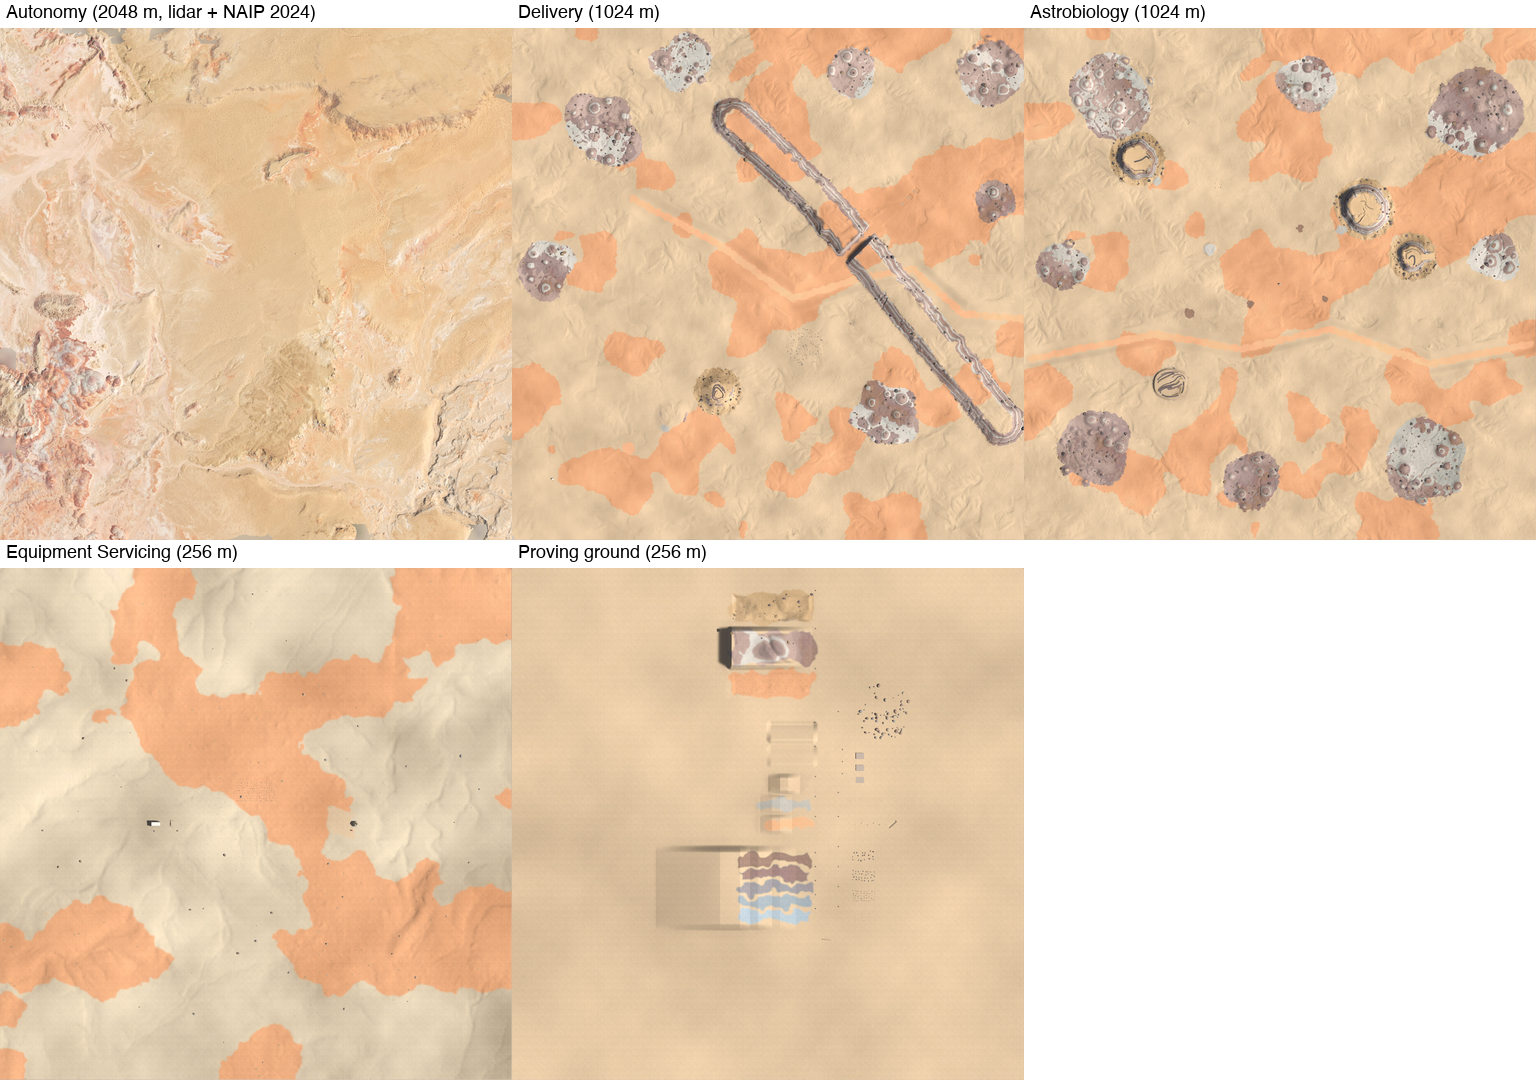
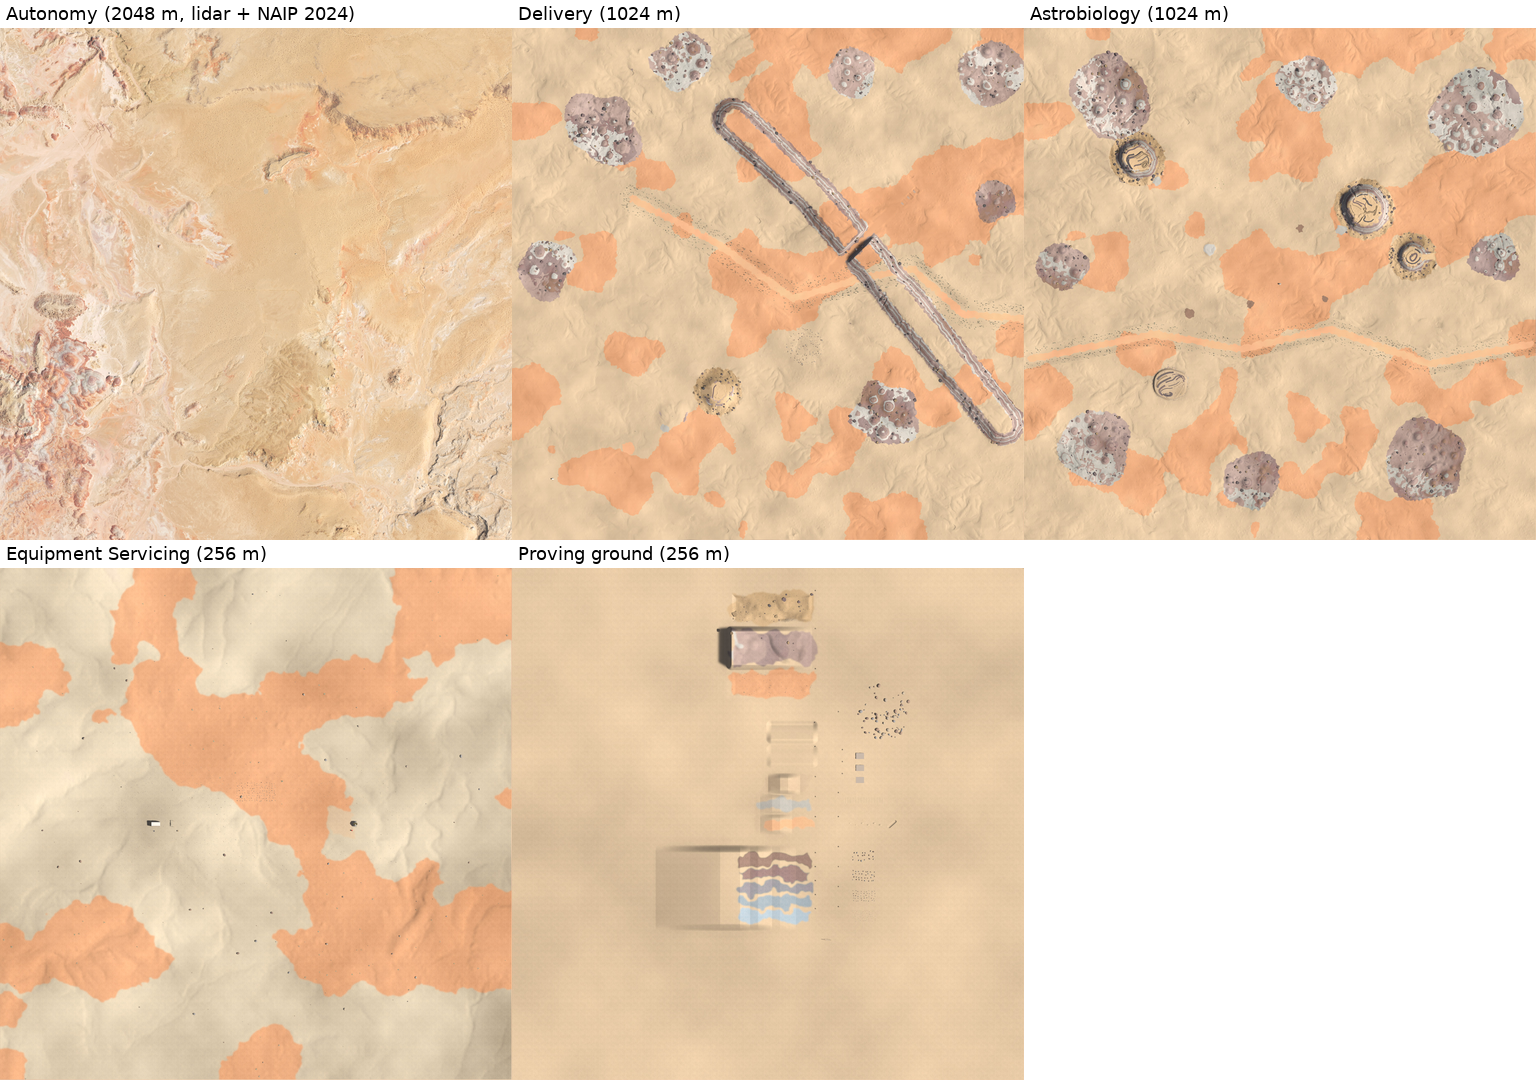
Sinkage regression spawns clear of the cross slope; README relief numbers attributed; worlds montage from the new maps
A 0.1 m spawn lift on the badland strip's 15 deg cross slope put the uphill
wheel into the heightmap, where it stayed 5-9 cm deep (a Gazebo lesson now).

diff --git a/sim/tests/test_urc_terrain.py b/sim/tests/test_urc_terrain.py
@@ -1084,17 +1084,19 @@ class ProvingGroundPhysics(unittest.TestCase):
         same surface as a mesh 0.5 mm; Gazebo lessons). On the proving
         ground's natural badland strip, the roughest of the worlds' natural
         ground, the surface reaches into a wheel at most 2.5 cm (p99) beyond
-        the carve, while the rover drives 8 m up it at 0.5 m/s (measured
-        2026-10-07: p99 16.8 mm; 1-17 mm across the worlds' natural ground)."""
+        the carve, while the rover drives 7 m along it at 0.5 m/s (measured
+        2026-10-07: p99 16.5 mm; 1-17 mm across the worlds' natural ground).
+        Spawned 0.35 m up: on its 15 deg cross slope a 0.1 m lift put the
+        uphill wheel into the heightmap, where it stayed 5-9 cm deep."""
         p = self.sheet["points"]["natural_badland"]
         heading = math.radians(p["heading_deg"])
         x, y = p["x"] + 3.0 * math.cos(heading), p["y"] + 3.0 * math.sin(heading)
         surface = sheets.terrain(self.sheet, sheets.path("proving_ground"), collision=True)
-        with world_copy("proving_ground", rover=(x, y, heading), lift=0.1) as world:
+        with world_copy("proving_ground", rover=(x, y, heading), lift=0.35) as world:
             wheels = wheel_poses(world, 18.0, 0.5)
         reach = wheel_penetration(wheels[wheels[:, 0] > 2.0], surface.height)  # [m] after the spawn settles
         moved = math.dist(wheels[0, 1:3], wheels[-1, 1:3])
-        self.assertGreater(moved, 7.0)
+        self.assertGreater(moved, 6.5)
         self.assertLess(float(np.percentile(reach, 99)), 0.025, np.percentile(reach, [50, 90, 99, 100]))
 
     def test_twist_ditch_turns_the_rockers_to_their_limit(self):

diff --git a/sim/README.md b/sim/README.md
@@ -566,11 +566,12 @@ drivetrain on every wheel contact, terrain or object.
   sand, 0.5 cm on regolith); dig-in raises resistance, not sinkage.
 - DART's cylinder–heightmap collision lets wheels into rough relief beyond
   the carve: driving 10 m at 0.5 m/s the surface reaches into a wheel by
-  1–17 mm (p99) on the worlds' natural ground (the proving ground's badland
-  strip 16.8 mm, Astrobiology's roughest 11.4 mm, Delivery 8.2 mm, Autonomy
-  5.6 mm, sand sheet 1.4 mm), 2–3 cm on 5 cm RMS relief at any sample spacing;
-  the same surface as a mesh 0.5 mm. `test_urc_terrain` holds the badland
-  strip under 2.5 cm.
+  1–17 mm (p99) on the worlds' natural ground (measured by the review,
+  2026-10-07: the proving ground's badland strip 16.8 mm, Astrobiology's
+  roughest 11.4 mm, Delivery 8.2 mm, Autonomy 5.6 mm, sand sheet 1.4 mm),
+  2–3 cm on 5 cm RMS relief at any sample spacing; the same surface as a mesh
+  0.5 mm. `test_urc_terrain` holds the badland strip under 2.5 cm (16.5 mm
+  with its knobs faded whole).
 - No stick-slip judder in slow turns on rock: a rigid rover turning in place
   slips at the yaw ratio where its slip is least, so the Stribeck drop has no
   first-order effect (design spec 6.9 target not met; tyre compliance gives
@@ -1197,7 +1198,10 @@ cost a wrong first attempt.
 - **`gz::math::SpeedLimiter` cannot be copied or moved**: keep it in place
   (a `std::deque`).
 - **A rover spawned on a sloped heightmap lands on its uphill wheels first**;
-  that jolt can start a slide on slopes between atan(μk) and atan(μs).
+  that jolt can start a slide on slopes between atan(μk) and atan(μs). A
+  wheel spawned inside the heightmap stays inside it: on a 15° cross slope a
+  0.1 m lift left the uphill wheel 9 cm deep, easing out over metres of
+  driving (spawn high enough to clear every wheel).
 - **Gazebo's GUI Teleop sends one message per button press**: a drivetrain
   with a command timeout stops after the timeout; it needs `cmd_timeout` 0.
 - **OdometryPublisher's twist can spike** (one yaw rate of 4π/dt in 1233
